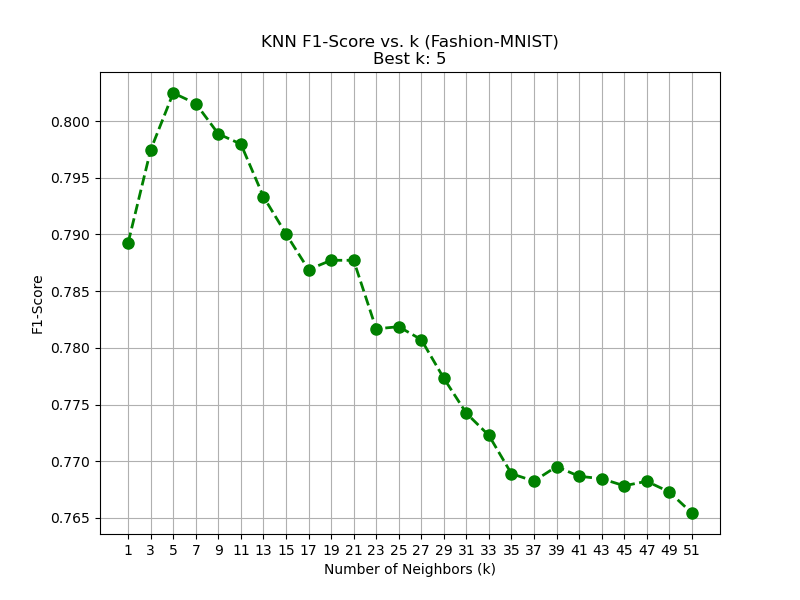
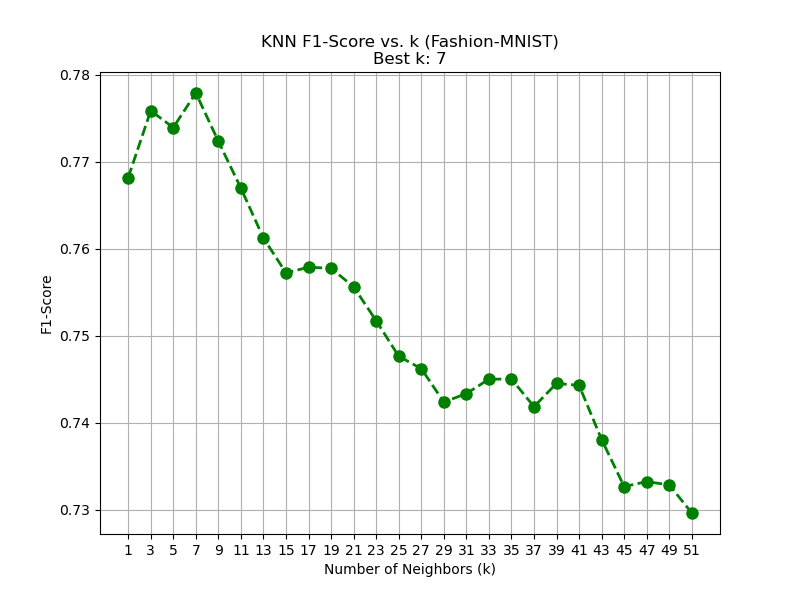
Reran extra credit experiment w/ k=10

diff --git a/experiments/run_extracredit2.py b/experiments/run_extracredit2.py
@@ -7,7 +7,7 @@ from models.neural_network import NeuralNetwork
 from models.knn import KNN
 
 def run_fashion_experiments():
-    X, y = load_fashion_mnist_sample(sample_size=5000)
+    X, y = load_fashion_mnist_sample(sample_size=2000)
     
     os.makedirs('latex_source', exist_ok=True)
 
@@ -24,7 +24,7 @@ def run_fashion_experiments():
         'batch_size': 128
     }
     
-    nn_best_params, nn_results = grid_search_cv(NeuralNetwork, X, y, nn_param_grid, k=3, fit_params=fit_params)
+    nn_best_params, nn_results = grid_search_cv(NeuralNetwork, X, y, nn_param_grid, k=10, fit_params=fit_params)
     
     print("\nNeural Network Full Results")
     for res in nn_results:
@@ -33,11 +33,14 @@ def run_fashion_experiments():
     print("\nRetraining optimal NN to capture learning curve...")
     optimal_nn = NeuralNetwork(**nn_best_params)
     cost_history = optimal_nn.fit(X, y, **fit_params)
+
+    m_samples = X.shape[1]
+    instances_presented = [epoch * m_samples for epoch in range(1, len(cost_history) + 1)]
     
     plt.figure(figsize=(8, 6))
-    plt.plot(range(len(cost_history)), cost_history, color='purple', linewidth=2)
+    plt.plot(instances_presented, cost_history, color='purple', linewidth=2)
     plt.title(f"Neural Network Convergence (Fashion-MNIST)\nParams: {nn_best_params}")
-    plt.xlabel("Epochs")
+    plt.xlabel("Number of Training Instances Presented")
     plt.ylabel("Cost (J)")
     plt.grid(True)
     plt.savefig('latex_source/nn_fashion_learning_curve.png')

diff --git a/experiments/run_digits.py b/experiments/run_digits.py
@@ -34,12 +34,15 @@ def run_digits_experiments():
     print("\nRetraining optimal NN to capture learning curve...")
     optimal_nn = NeuralNetwork(**nn_best_params)
     cost_history = optimal_nn.fit(X, y, **fit_params)
+
+    m_samples = X.shape[1]
+    instances_presented = [epoch * m_samples for epoch in range(1, len(cost_history) + 1)]
     
     # Plot NN Convergence
     plt.figure(figsize=(8, 6))
-    plt.plot(range(len(cost_history)), cost_history, color='blue', linewidth=2)
+    plt.plot(instances_presented, cost_history, color='blue', linewidth=2)
     plt.title(f"Neural Network Convergence (Digits)\nParams: {nn_best_params}")
-    plt.xlabel("Epochs")
+    plt.xlabel("Number of Training Instances")
     plt.ylabel("Cost (J)")
     plt.grid(True)
     plt.savefig('latex_source/nn_digits_learning_curve.png')

diff --git a/utils/data_loader.py b/utils/data_loader.py
@@ -51,7 +51,7 @@ def load_digits_dataset():
     
     return X, y
 
-def load_fashion_mnist_sample(sample_size=2000):
+def load_fashion_mnist_sample(sample_size):
     """
     Pulls subset of Fashion-MNIST
     Returns X as (784, samples) and y as (1, samples)
